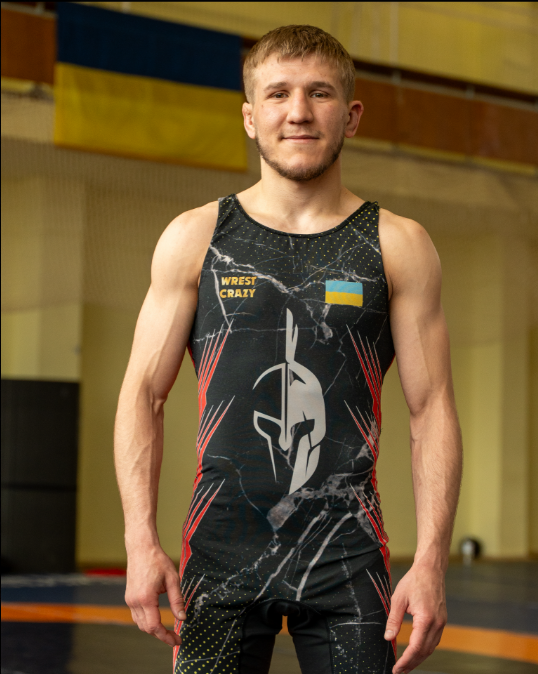
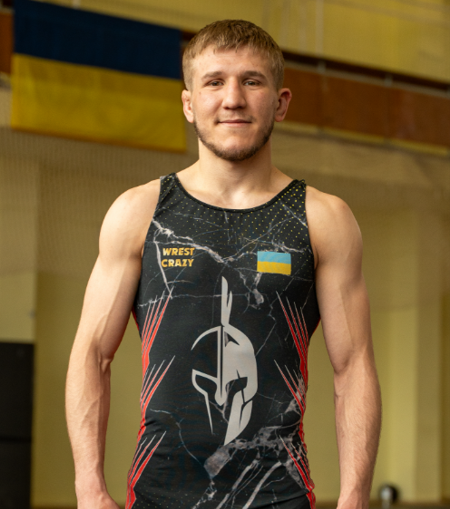
NteamU23+Adult2026World

diff --git a/Frontend/JS/nationalteam.js b/Frontend/JS/nationalteam.js
@@ -67,7 +67,18 @@ const teams = {
 			{ id: 'adult-athlete-9', role: 'Спортсмен', name: 'Владислав Кузько', image: 'assets/Дорослі/Europe/Владислав Кузько (60 кг).png', dob: '', city: '', title: '', weight: '60 кг', achievements: [] },
 			{ id: 'adult-athlete-10', role: 'Спортсмен', name: 'Іван Стефанський', image: 'assets/Дорослі/Europe/Іван Стефанський (55 кг).png', dob: '', city: '', title: '', weight: '55 кг', achievements: [] },
 		],
-		worldAthletes: buildPlaceholderRoster('adult', 10)
+		worldAthletes: [
+				{ id: 'adult-world-athlete-1', role: 'Спортсмен', name: 'Михайло Вишнивецький', image: 'assets/Дорослі/Europe/Михайло Вишнивецький (130 кг).png', dob: '', city: '', title: 'Склад світу', weight: '130 кг', achievements: [] },
+				{ id: 'adult-world-athlete-2', role: 'Спортсмен', name: 'Владлен Козлюк', image: 'assets/Дорослі/Europe/Владлен Козлюк (97 кг).png', dob: '', city: '', title: 'Склад світу', weight: '97 кг', achievements: [] },
+				{ id: 'adult-world-athlete-3', role: 'Спортсмен', name: 'Ярослав Фільчаков', image: 'assets/Дорослі/Europe/Ярослав Фільчаков (87 кг).png', dob: '', city: '', title: 'Склад світу', weight: '87 кг', achievements: [] },
+				{ id: 'adult-world-athlete-4', role: 'Спортсмен', name: 'Микита Політаєв', image: 'assets/Дорослі/World/Політаєв Микита.png', dob: '', city: '', title: 'Склад світу', weight: '82 кг', achievements: [] },
+				{ id: 'adult-world-athlete-5', role: 'Спортсмен', name: 'Олег Халілов', image: 'assets/Дорослі/World/Халілов Олег.png', dob: '', city: '', title: 'Склад світу', weight: '77 кг', achievements: [] },
+				{ id: 'adult-world-athlete-6', role: 'Спортсмен', name: 'Парвіз Насібов', image: 'assets/Дорослі/World/Насібов Парвіз.png', dob: '', city: '', title: 'Склад світу', weight: '72 кг', achievements: [] },
+				{ id: 'adult-world-athlete-7', role: 'Спортсмен', name: 'Олександр Грушин', image: 'assets/Дорослі/Europe/Олександр Грушин (67 кг).png', dob: '', city: '', title: 'Склад світу', weight: '67 кг', achievements: [] },
+				{ id: 'adult-world-athlete-8', role: 'Спортсмен', name: 'Максим Лю', image: 'assets/Дорослі/Europe/Максим Лю (63 кг).png', dob: '', city: '', title: 'Склад світу', weight: '63 кг', achievements: [] },
+				{ id: 'adult-world-athlete-9', role: 'Спортсмен', name: 'Владислав Кузько', image: 'assets/Дорослі/Europe/Владислав Кузько (60 кг).png', dob: '', city: '', title: 'Склад світу', weight: '60 кг', achievements: [] },
+				{ id: 'adult-world-athlete-10', role: 'Спортсмен', name: 'Корюн Саградян', image: 'assets/Дорослі/World/Корюн Саградян.png', dob: '', city: '', title: 'Склад світу', weight: '55 кг', achievements: [] },
+			]
 	},
 	u23: {
 		coaches: [
@@ -86,7 +97,18 @@ const teams = {
 			{ id: 'u23-athlete-9', role: 'Спортсмен', name: 'Євген Поковба', image: 'assets/u23/Europe/60кг - Євген Поковба.png', dob: '', city: '', title: '', weight: '60 кг', achievements: [] },
 			{ id: 'u23-athlete-10', role: 'Спортсмен', name: 'Іван Стефанський', image: 'assets/u23/Europe/55кг - Іван Стефанський.jpg', dob: '', city: '', title: '', weight: '55 кг', achievements: [] },
 		],
-		worldAthletes: buildPlaceholderRoster('u23', 10)
+		worldAthletes: [
+				{ id: 'u23-world-athlete-1', role: 'Спортсмен', name: 'Іван Янковський', image: 'assets/u23/Europe/130кг - Іван Янковський.png', dob: '', city: '', title: 'Склад світу', weight: '130 кг', achievements: [] },
+				{ id: 'u23-world-athlete-2', role: 'Спортсмен', name: 'Єгор Якушенко', image: 'assets/u23/Europe/97кг - Єгор Якушенко.png', dob: '', city: '', title: 'Склад світу', weight: '97 кг', achievements: [] },
+				{ id: 'u23-world-athlete-3', role: 'Спортсмен', name: 'Іван Чмир', image: 'assets/u23/World/Чмир Іван.png', dob: '', city: '', title: 'Склад світу', weight: '87 кг', achievements: [] },
+				{ id: 'u23-world-athlete-4', role: 'Спортсмен', name: 'Сеймур Мамедов', image: 'assets/u23/World/Мамедов Сеймур.png', dob: '', city: '', title: 'Склад світу', weight: '82 кг', achievements: [] },
+				{ id: 'u23-world-athlete-5', role: 'Спортсмен', name: 'Ірфан Мірзоєв', image: 'assets/u23/Europe/77кг - Ірфан Мірзоєв.png', dob: '', city: '', title: 'Склад світу', weight: '77 кг', achievements: [] },
+				{ id: 'u23-world-athlete-6', role: 'Спортсмен', name: 'Дмитро Васильєв', image: 'assets/u23/Europe/72кг - Дмитро Васильєв.png', dob: '', city: '', title: 'Склад світу', weight: '72 кг', achievements: [] },
+				{ id: 'u23-world-athlete-7', role: 'Спортсмен', name: 'Імед Худжадзе', image: 'assets/u23/Europe/67кг - Імед Худжадзе.png', dob: '', city: '', title: 'Склад світу', weight: '67 кг', achievements: [] },
+				{ id: 'u23-world-athlete-8', role: 'Спортсмен', name: 'Артем Лиско', image: 'assets/u23/World/Лисько Артем.png', dob: '', city: '', title: 'Склад світу', weight: '63 кг', achievements: [] },
+				{ id: 'u23-world-athlete-9', role: 'Спортсмен', name: 'Євген Поковба', image: 'assets/u23/Europe/60кг - Євген Поковба.png', dob: '', city: '', title: 'Склад світу', weight: '60 кг', achievements: [] },
+				{ id: 'u23-world-athlete-10', role: 'Спортсмен', name: 'Іван Стефанський', image: 'assets/u23/Europe/55кг - Іван Стефанський.jpg', dob: '', city: '', title: 'Склад світу', weight: '55 кг', achievements: [] },
+			]
 	},
 	u20: {
 		coaches: [
@@ -165,7 +187,7 @@ const teams = {
 			{ id: 'u15-athlete-9', role: 'Спортсмен', name: 'Іван Гуцол', image: 'assets/u15/I_Gutsol.webp', dob: '', city: 'Запорізька обл.', title: '', weight: '41 кг', achievements: [] },
 			{ id: 'u15-athlete-10', role: 'Спортсмен', name: 'Єгор Шевченко', image: 'assets/u15/Y.Shevchenko.webp', dob: '', city: 'Сумська обл.', title: '', weight: '38 кг', achievements: [] },
 		],
-		worldAthletes: buildPlaceholderRoster('u15', 10)
+		
 	}
 };
 
